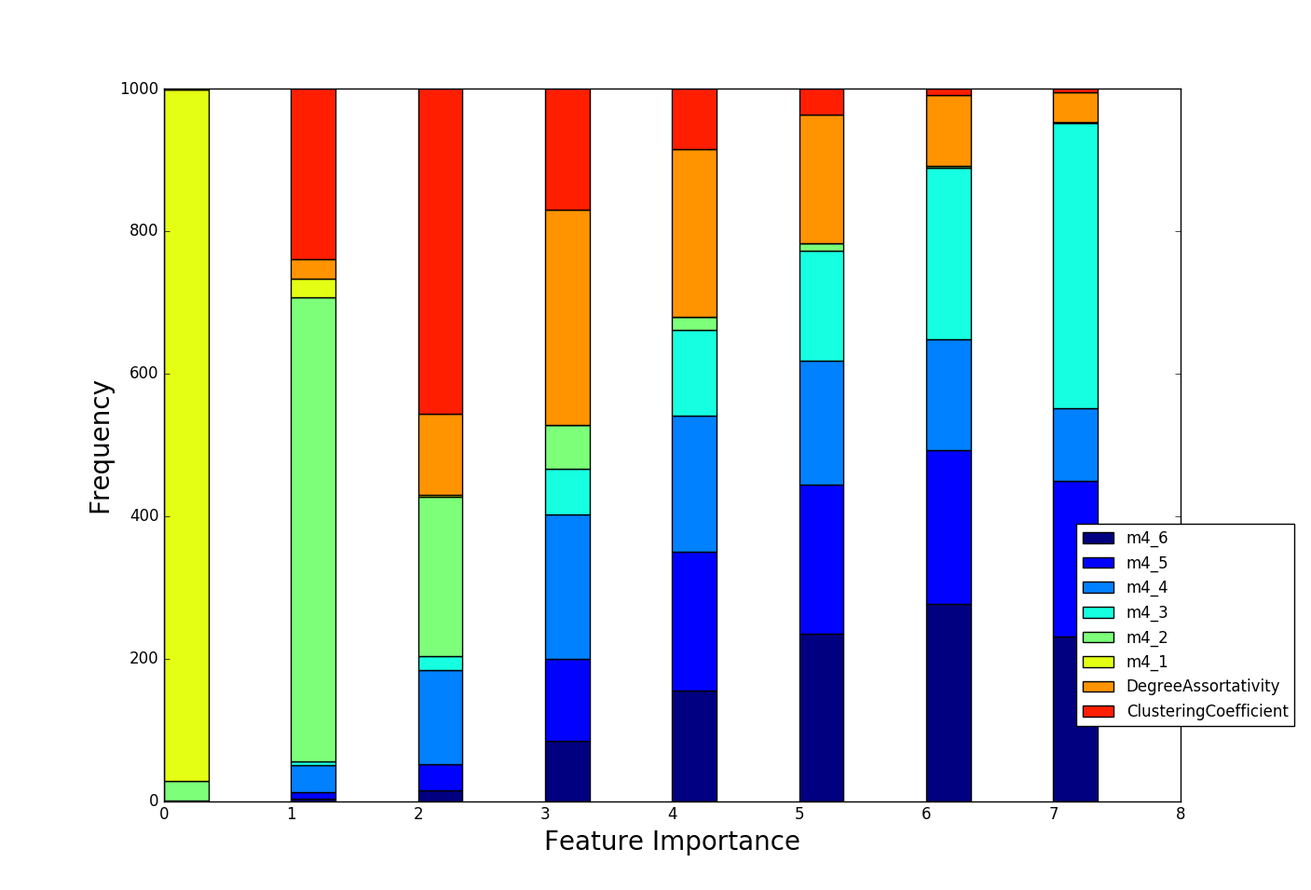
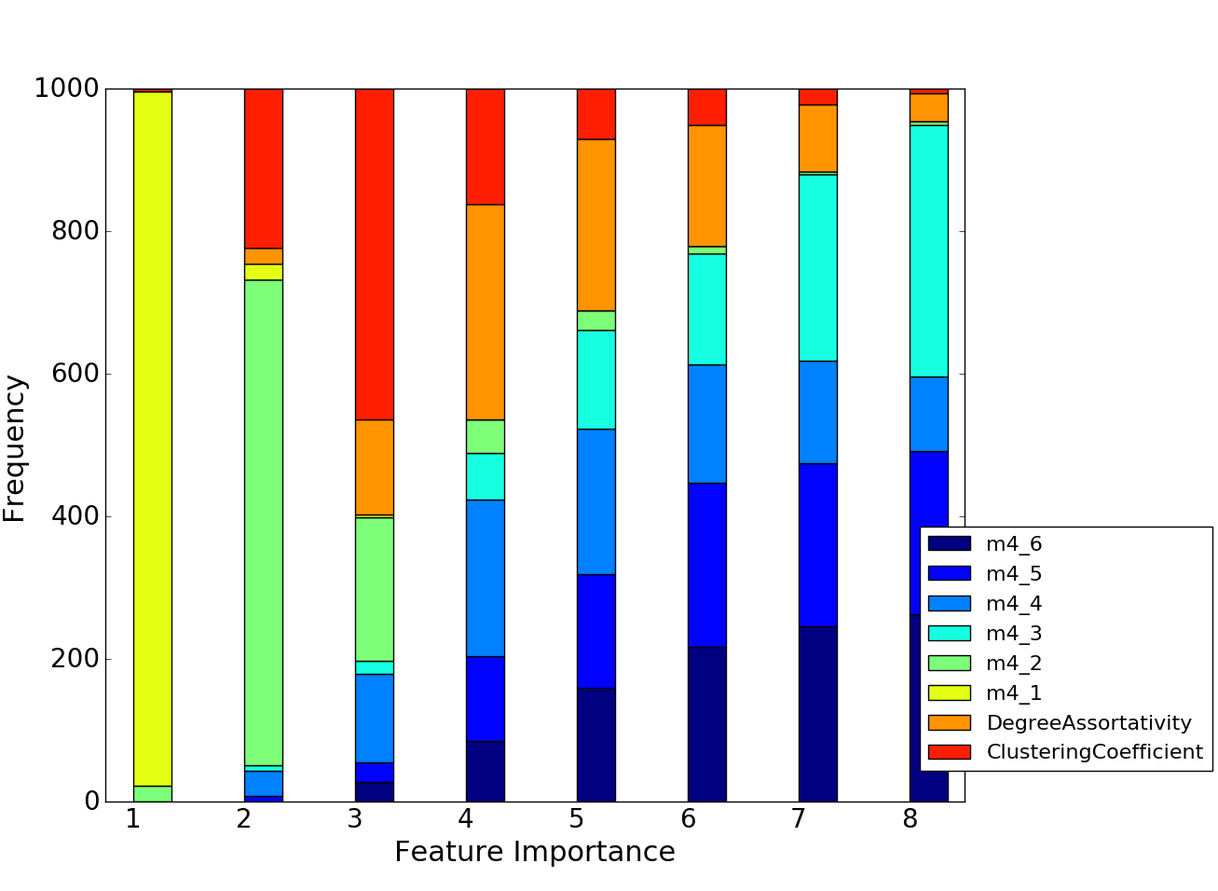
Larger font size for some figures.

diff --git a/Thesis.tex b/Thesis.tex
@@ -211,8 +211,8 @@ In this study, we treat the significance profile for each subgraph as a feature 
     \caption{Network Features. The total number of features is $8$.}
     \begin{tabular}{| l | p{8cm} |} \hline
       Name of the feature & Explanation  \\ \hline \hline
-      Clustering coefficient &  The probability that a connected triplet ($k=3$ subgraph) is a triangle \\  \hline
-      Degree assortativity &  Correlation between a pair of connected nodes' degree. \\  \hline
+      Clustering coefficient &  The probability that a connected triplet ($k=3$ subgraph) is a triangle \\  %\hline
+      Degree assortativity &  Correlation between a pair of connected nodes' degree. \\  %\hline
       Network motifs from $m4\_1$ to  $m4\_6$& The normalized z score of a subgraph's frequency compared to that of an ensemble of random networks having the exact same degree distribution. \\ \hline
     \end{tabular}
     \label{tab:feature}
@@ -420,7 +420,7 @@ The first question of focus is about the set of distinguishing features that mak
 Fig.\ref{2d_figures} shows two dimensional plots for the representative network sub-domains with axes being the top two important features selected from the statistics of aggregated feature importance shown in Fig. \ref{feature_importance_figures}. One important observation here is that the AUC score captures the separability and the degree of "spread" of a specific class labels in the two dimensional feature space: the averaged AUC score for protein interaction networks shown in Fig. \ref{protein_2d} is 0.693 and the data points are spread across the large region of the feature space; the 2D plot of communication networks as shown in Fig. \ref{communication_2d}, on the other hand, displays a cluster of points corresponding to the class and the averaged AUC score for binary classifications is 0.992 which is much higher than that of protein interaction networks. The degree of spread, expressed in the AUC score, implies the structural variability of networks within a single category. For example, protein interaction networks and connectome exhibit the high structural variability of networks in those categories in a space defined by the selected features, whereas other network categories such as metabolic networks, ecological food webs, etc. exhibit the low structural variability in the selected features. This suggests the possible need for adding a new set of features for protein interaction networks and connectome with which we could distinguish them from the other kinds. 
 
 
-Fig.\ref{feature_importance_figures} shows the aggregated rankings of feature importance. In this figure, one can observe the general trend of an informative feature set and the "strength" of those features in the ranking. For example, the motif $m4\_6$, a connected path, of metabolic networks and the motif $m4\_1$, $k=4$ clique, of online social networks are the most important features and their strength is quite dominant:  $m4\_6$ of metabolic networks ranks as the first 937 times out of 1000 runs and $m4\_1$ of online social networks ranks as the first 971 times  out of 1000 runs, respectively. It is interesting to note that for online social networks clustering coefficient and degree assortativity, both long known for distinguishing features for social networks in general do not rank as the most or even the second most important features here.  On the other hand, the ranking of feature importance for connectome displays a lack of definitive features that can be seen in the almost equal frequencies of features appearing at any rank. This indicates that none of the features we have used cannot explain the network category succinctly: for online social networks we can describe the networks as having an extraordinarily number of $k=4$ cliques when compared to their randomized counterparts; we cannot, however, describe connectome with the feature set in such a way.
+Fig.\ref{feature_importance_figures} shows the aggregated rankings of feature importance. In this figure, one can observe the general trend of an informative feature set and the "strength" of those features in the ranking. For example, the motif $m4\_6$, a connected path, of metabolic networks and the motif $m4\_1$, $k=4$ clique, of online social networks are the most important features and their strength is quite dominant:  $m4\_6$ of metabolic networks ranks as the first 939 times out of 1000 runs and $m4\_1$ of online social networks ranks as the first 974 times  out of 1000 runs, respectively. It is interesting to note that for online social networks clustering coefficient and degree assortativity, both long known for distinguishing features for social networks in general do not rank as the most or even the second most important features here.  On the other hand, the ranking of feature importance for connectome displays a lack of definitive features that can be seen in the almost equal frequencies of features appearing at any rank. This indicates that none of the features we have used cannot explain the network category succinctly: for online social networks we can describe the networks as having an extraordinarily number of $k=4$ cliques when compared to their randomized counterparts; we cannot, however, describe connectome with the feature set in such a way.
 
 
 
@@ -428,18 +428,18 @@ These distinguishing features observed in the figures seem to have some implicat
 
 On the other hand, communication networks namely the Internet at the level of autonomous systems exhibit the underrepresented number of  $m4\_1$ subgraphs. It was previously reported that the number of triangles in the communication networks is less than the expected value of the number of triangles for their randomized counterparts having the same degree distribution \cite{InternetClustering}. The $m4\_1$ subgraph, namely $k=4$ clique, contains four triangles within itself. Therefore it is not illogical to say that the underrepresentation of triangles approximately equals to the underrepresentation of $k=4$ clique, which leads us to claim that our finding coincides with the previous study. This underrepresentation of $k=4$ clique may imply the underlying growing or "construction" mechanism of communication systems: the whole system needs to be connected in order for the Internet to work, but does not need too many connections among autonomous systems as the cost for connections should be minimized. 
 
-For some network sub-domains, however, implications of the distinguishing features are unclear. Although protein interaction networks and connectome exhibit degree assortativity and $m4\_2$ motif, namely $4-$chordal cycle, as the most distinguishing features, their structural variability which is displayed as the spread of points makes it infeasible to even hypothesize the relationship between those features and underlying mechanism of such networks. For metabolic networks, the underrepresentation of $m4\_6$ motif ($4$-path) is found to be the most distinguishing characteristic for the category. However, connecting this result with the possible mechanism which yields the underrepresentation of the motif in metabolic networks is yet under investigation.
+For some network sub-domains, however, implications of the distinguishing features are unclear. Although protein interaction networks and connectome exhibit degree assortativity and $m4\_4$ motif, namely $4-$cycle, as the most distinguishing features, their structural variability which is displayed as the spread of points makes it infeasible to even hypothesize the relationship between those features and underlying mechanism of such networks. For metabolic networks, the underrepresentation of $m4\_6$ motif ($4$-path) is found to be the most distinguishing characteristic for the category. However, connecting this result with the possible mechanism which yields the underrepresentation of the motif in metabolic networks is yet under investigation.
 
  In this analysis we have successfully identified a set of distinguishing structural features for some network sub-domains, such as ecological food webs, online social networks and communication networks and these features seem to coincide with the results from previous studies of such sub-domains. We have also pointed out that the distinguishing features have some implications for the underlying mechanism of networks of sub-domains.
 
 \begin{figure}[H]
 \begin{subfigure}{0.48\textwidth}
 \includegraphics[width=\linewidth]{figs/one_by_many/protein/2d.png}
-\caption{Protein interaction.  Average AUC score: 0.693} \label{protein_2d}
+\caption{Protein interaction.  Average AUC score: 0.689} \label{protein_2d}
 \end{subfigure}\hspace*{\fill}
 \begin{subfigure}{0.48\textwidth}
 \includegraphics[width=\linewidth]{figs/one_by_many/food_web/2d.png}
-\caption{Ecological food web. Average AUC score: 0.802} \label{foodweb_2d}
+\caption{Ecological food web. Average AUC score: 0.804} \label{foodweb_2d}
 \end{subfigure}
 
 \medskip
@@ -449,13 +449,13 @@ For some network sub-domains, however, implications of the distinguishing featur
 \end{subfigure}\hspace*{\fill}
 \begin{subfigure}{0.48\textwidth}
 \includegraphics[width=\linewidth]{figs/one_by_many/connectome/2d.png}
-\caption{Connectome. Average AUC score: 0.715} \label{connectome_2d}
+\caption{Connectome. Average AUC score: 0.716} \label{connectome_2d}
 \end{subfigure}
 
 \medskip
 \begin{subfigure}{0.48\textwidth}
 \includegraphics[width=\linewidth]{figs/one_by_many/online_social/2d.png}
-\caption{Online social. Average AUC score: 0.939} \label{online_social_2d}
+\caption{Online social. Average AUC score: 0.94} \label{online_social_2d}
 \end{subfigure}\hspace*{\fill}
 \begin{subfigure}{0.48\textwidth}
 \includegraphics[width=\linewidth]{figs/one_by_many/communication/2d.png}
@@ -649,7 +649,7 @@ Then the question is: \textit{What could be a good indicator of similarity in ne
 
 Fig.\ref{meta_network_community} shows the networks of sub-domains on which the colors of nodes correspond to the community membership found by a community detection algorithm proposed by Clauset \textit{et al.} \cite{CNMAlgorithm}. We have used the implementation of the modified version of this algorithm for weighted network that is available in Python-igraph as a method \texttt{community\_fastgreedy()} \cite{igraph}. From Fig.\ref{meta_network_community}, one may notice that the community structure across different sampling methods is almost consistent, meaning that the certain groups of sub-domains are always in the same community.  For instance, for all sampling methods, offline social, connectome and affiliation networks are in the same community. 
 
-Some network sub-domains, however, change the community membership for some subdomain networks. For instance, online social network and forest fire model networks join the community of off-line social network for no sampling, random-over sampling and random-under sampling method, but joins the community of software dependency (red color) for SMOTE sampling. This variation of community membership across all subdomain networks could be attributed to the effect of each sampling method on decision surfaces a classifier builds for classification. For instance, decision surfaces built by a classifier under the random under-sampling strategy should be simple shape-wise since the training set is very sparse in terms of the number of data points. On the other hand, decision surfaces built by a classifier for random over-sampling should be more toward complicated shape-wise and lead to over-fitting as the number of data points for training is larger and duplicated points force the classifier to adjust itself to those points. Therefore this variation of decision surfaces may lead some data points be classified differently for different sampling method, which ultimately leads to the variation of community memberships.
+Some network sub-domains, however, change the community membership for some subdomain networks. For instance, online social network and forest fire model networks join the community of off-line social network for no sampling, random-over sampling and random-under sampling method, but joins the community of software dependency (red color) for SMOTE sampling. This variation of community membership across all subdomain networks could be attributed to the effect of each sampling method on decision surfaces a classifier builds for classification. For instance, decision surfaces built by a classifier under the random under-sampling strategy should be simple shape-wise since the training set is very sparse in terms of the number of data points. On the other hand, decision surfaces built by a classifier for random over-sampling should be more toward complicated shape-wise and lead to over-fitting as the number of data points for training is larger and duplicated points force the classifier to adjust itself to those points. Therefore this variation of decision surfaces may lead some data points to be classified differently for different sampling method, which ultimately leads to the variation of community memberships.
 
 
 In order to facilitate analyzing the variation of community memberships, we have constructed a matrix, shown in Fig.\ref{community_overlaps} in which the frequency that two sub-domain share the same community membership corresponds to the color intensity. For instance offline social, connectome and affiliation networks are assigned to the same community four times. From this figure, one may notice that there appears to be three groups of sub-domains that are consistently assigned to the same community. The first one is a community of social networks including online and offline social networks as well as affiliation network and forest fire model  that was invented for modeling the large scale online social network with an exception of connectome, namely brain networks. The second group of sub-domains corresponds to the networks that have been claimed to have the power-law degree distribution which include scale-free network, metabolic network, web graph, etc. and some of these networks have been conjectured to grow according to a mechanism called preferential attachment. In this network generative process, newly added nodes in a network, for example newly created web page or software package, tend to connect to the popular or high-degree nodes, i.e. popular web sites or widely used software packages. The third and last group of sub-domains is the network of "flow" that includes electrical signal (digital circuit), information (bayesian), water (water distribution), nutrient (fungal), people/trains (subway) and cars (road).  Also, if we look at the subdomain networks, digital circuit and bayesian networks are always tightly connected together. This may be due to the fact that they are both an input-output network as well as being a flow network. The rest of the flow networks have another common property, that is, physical embedding of the network. These networks have a strong constraint of the physical limitation. For instance, it is almost impossible for a node in a physically embedded network to have a thousand connections upon it.
@@ -662,16 +662,16 @@ In order to facilitate analyzing the variation of community memberships, we have
 		\vspace{0.5cm}
 		\includegraphics[clip,width=12cm,height = 9cm]{figs/overlaps.png}
 		\vspace{0.5cm}
-		\caption{Overlaps of community memberships. The intensity of color for each cell in the matrix indicates the frequency of two sub-domains being in the same community.  There are three groups of sub-domains that almost constantly share the community membership: (i) community of social networks including online social, forest fire model, offline social, and so on.; (ii) community of networks known for having the scale-free property including scale-free network, metabolic network, web graph, etc. with some exceptions such as small world network; (iii) community of networks that are physically embedded, having an input-output function or containing some sort of flow on the network, which include road, digital circuit and fungal networks.}
+		\caption{Overlaps of community memberships. The intensity of color for each cell in the matrix indicates the frequency of two sub-domains being in the same community.  There are three groups of sub-domains that almost constantly share the community membership: (i) community of social networks including online social, forest fire model, offline social, and so on.; (ii) community of networks claimed to have a power-law degree distribution including scale-free network, metabolic network, web graph, etc. with some exceptions such as small world network; (iii) community of networks that are physically embedded, having an input-output function or containing some sort of flow on the network, which include road, digital circuit and fungal networks.}
 		\label{community_overlaps}
  		\end{center}
 \end{figure}
 
 %The intersections of community overlap circles are where some ambiguity remains. Metabolic network, for example is at the intersection of flow networks and preferential attachment networks. It is known that metabolic network is in fact a so-called scale-free network and the preferential attachment mechanism can be explained by the natural selection over the course of evolution. However, one can think metabolic network as some sort of flow network having some input-output relations as well: the input corresponds to nutrients and they get broken down into pieces of chemical; the output corresponds to the usable chemical compound that a living organism needs in order to survive. Therefore, it is reasonable for this factory-like flow network to be classified as or similar with other flow networks such as digital circuit or bayesian networks as well as a preferential attachment network. 
 
-From these communities of sub-domains, one could hypothesize an idea that explains what governs the structure of complex networks: functionality, constraint and growing mechanism of networks play an important role of formation of a specific network structure. As we have seen the sub-domains of networks that have the similar functionality, constraint or growing mechanism exhibit the similar structural pattern which is captured in confusion matrices and also communities of networks. However, there seems to be a case where we do not know why a network sub-domain is in a community and how the hypothesis would explain this: connectome, or brain network shares the same community with social networks. If our hypothesis is correct, then brain networks should have either the same function, constraint or growing mechanism as social networks. As far as we know, there is no study which compares connectome and social networks in terms of network structure and explains the similarity of their function, constraint and generative mechanism. One possible direction to take would be finding a set of features for which those sub-domains have similar values and investigate a possible generative process which yields networks having such structural features.
+From these communities of sub-domains, one could hypothesize an idea that explains what governs the structure of complex networks: functionality, constraint and growing mechanism of networks may play an important role of the formation of a specific network structure. As we have seen, the sub-domains of networks that have the similar functionality, constraint or growing mechanism exhibit the similar structural pattern which is captured in confusion matrices and also communities of networks. However, there seems to be a case where we do not know why a network sub-domain is in a community and how the hypothesis would explain this: connectome, or brain network shares the same community with social networks. If our hypothesis is correct, then brain networks should have either the same function, constraint or growing mechanism as social networks. As far as we know, there is no study which compares connectome and social networks in terms of network structure and explains the similarity of their function, constraint and generative mechanism. One possible direction to take would be finding a set of features for which those sub-domains have similar values and investigate a possible generative process which yields networks having such structural features.
 
-Although there are some exceptional cases, our findings from this experiment provide some supporting evidence that the network structure is indeed is influenced by the underlying function, constrain and growing mechanism of the network.
+Although there are some exceptional cases, our findings from this experiment provide some supporting evidence that the network structure is indeed is influenced by the underlying function, constraint and growing mechanism of the network.
 
 
 %%%%%%%%%%%%%%%% --- New Chapter --- %%%%%%%%%%%%%%%%
@@ -679,35 +679,37 @@ Although there are some exceptional cases, our findings from this experiment pro
 \section{Discussion}
 In the previous chapter, we have found the distinguishing features for various network sub-domains with possible explanations for the underlying processes of networks, and the hidden similarities among network domains and sub-domains based on subdomain networks we have constructed. In this chapter we are going to synthesize our findings and the previous studies together.
 
-In the investigation of distinguishing features and the separability of sub-domains, we have observed that some network sub-domains are hard to be separated in the high dimensional feature space, which can be also seen in AUC score. This finding has an interesting connection with the subdomain networks we have constructed later: the sub-domains having high separability, such as online social networks and ecological food-webs, tend to be at the \textit{periphery} of the subdomain networks, whereas the subdomains having low separability, such as protein interaction networks and connectome, tend to be at the \textit{core} of the subdomain networks. In the subdomain networks, the core of nodes essentially depicts the sub-domains that are frequently misclassified by a classifier due to their structural similarity and the periphery displays sub-domains that are dissimilar to other sub-domains in terms of network structure. Therefore, it is relatively easy to infer that the sub-domains at the core that were not studied for finding the distinguishing features, such as digital circuits and web graphs, may also exhibit low separability in the feature space. 
+In the investigation of distinguishing features and the separability of sub-domains, we have observed that some network sub-domains are hard to be separated in the high dimensional feature space, which can be also seen in the AUC score. This finding has an interesting connection with the subdomain networks we have constructed later: the sub-domains having high separability, such as online social networks and ecological food-webs, tend to be at the \textit{periphery} of the subdomain networks, whereas the subdomains having low separability, such as protein interaction networks and connectome, tend to be at the \textit{core} of the subdomain networks. In the subdomain networks, the core of nodes essentially depicts the sub-domains that are frequently misclassified by a classifier due to their structural similarity and the periphery displays sub-domains that are dissimilar to other sub-domains in terms of network structure. Therefore, it is relatively reasonable to infer that the sub-domains at the core that were not studied for finding the distinguishing features, such as digital circuits and web graphs, may also exhibit low separability in the feature space. 
 
 
- As we have seen in confusion matrices in Fig.\ref{confusion}, network domains such as Biological, Social, etc. are quite separable in the feature space. Also, confusion matrices of network sub-domains exhibit the strong diagonal patterns except a few such as bayesian network and web graphs, indicating the separability of networks at the sub-domain level. These separabilities of networks in the different levels (domain and sub-domain) tells us something about where networks of different types occur within a manifold in the high dimensional feature space we have constructed: in the feature space at the domain level, points that corresponds to individual networks in the same network domain occupy some space in an intricately shaped manifold and the confusion matrices for network domain essentially indicates that instances of different network domains occupy different locations within the manifold with some overlap, which could be observed in off-diagonal elements in the confusion matrices. 
- 
- At the network sub-domain level, we see a somewhat different outcome: some sub-domains in a network domain occupy regions in the feature space that are completely separated; they correspond to the non-overlapping sections of the manifold at the level of network domain. They include, for example, food webs for Biological, peer to peer for Informational, communication for Technological and roads for Transportation. Some network sub-domains, however, almost completely overlap in the manifold with other sub-domains, and they correspond to the overlapping sections of the manifold at the network domain level. They include bayesian and web graphs for Informational and water distribution and software dependency for Technological. 
+ As we have seen in confusion matrices in Fig.\ref{confusion}, network domains such as Biological, Social, etc. are quite separable in the feature space. Also, confusion matrices of network sub-domains exhibit the strong diagonal patterns except a few such as bayesian network and web graphs, indicating the separability of networks at the sub-domain level. The separability of networks in the different levels (domain and sub-domain) tells us something about where networks of different types occur within a manifold in the high dimensional feature space we have constructed: in the feature space at the domain level, points that corresponds to individual networks in the same network domain occupy some space in an intricately shaped manifold and diagonal elements in the confusion matrices for network domain imply that instances of different network domains occupy different locations within the manifold with some overlap, which could be observed in off-diagonal elements in the confusion matrices. At the network sub-domain level, we see a somewhat different outcome: some sub-domains in a network domain occupy regions in the feature space that are completely separated; they correspond to the non-overlapping sections of the manifold at the level of network domain. They include, for example, food webs for Biological, peer to peer for Informational, communication for Technological and roads for Transportation. Some network sub-domains, however, almost completely overlap in the manifold with other sub-domains, and they correspond to the overlapping sections of the manifold at the network domain level. They include bayesian and web graphs for Informational and water distribution and software dependency for Technological. 
 
 %This discussion of a manifold and regions that network domains and sub-domains occupy 
 % talk about the granularity?
 
-This idea of thinking networks in a feature space as a manifold of complex shape has been explored in some previous studies. Avena-Koenigsberger \textit{et al.} have studied the idea of \textit{network morphospace} in which each axis corresponds to some feature related to the structure of networks, such as tree-ness, feed-forwardness and orderability \cite{NetworkMorphospace}. In this study, it is shown that different kinds of networks, such as technological, language and neural networks occupy some regions in a feature space which they call morphospace. One may notice in this study that some regions in the morphospace are not occupied at all by any networks. This observation gives us some question about the feature space: \textit{Are some regions of a feature space theoretically possible for networks to occupy?} This question may be answered with the study done by Ugander \textit{et al.} \cite{Ugander:2013}. They have studied a feature space in which each axis corresponds to the subgraph frequency of online social networks and mathematically proved that there are some regions in the feature space that are mathematically infeasible to be occupied. In other words, it is theoretically impossible for networks to have a structural property which corresponds to the region in the feature space. Interestingly, they observed that the real world networks, in this case Facebook networks, only occupy some sections of the habitable region. Taken together, these studies suggest that networks in the high dimensional feature occupy some regions of the entire possible space that is theoretically feasible. This phenomenon may be due to the fact that the space not occupied yet theoretically feasible corresponds to an inefficient structure of a network. Many of the biological networks and technological networks are optimized for a functioning by either natural selection over the course of evolution or effort of designing by a number of engineers and this may push the networks into a certain region in the feature space. The convergence toward a certain region in the feature space seems to happen in both kinds of networks, namely biological and technological networks and this is supported by one of our findings that fungal network, a kind of biological network developed by the evolutionary strategy, and water distribution networks, a kind of network designed by engineers, are found to be structurally similar based on the results of confusion matrices and their optimization is essentially for efficient flow on the network and cost-reduction of wiring in the networks.
+This idea of thinking networks as data points in a manifold of complex shape within some feature space has been explored previously. Avena-Koenigsberger \textit{et al.} have studied the idea of \textit{network morphospace} in which each axis corresponds to some feature related to the structure of networks, such as tree-ness, feed-forwardness and orderability \cite{NetworkMorphospace}. In this study, it is shown that different kinds of networks, such as technological, language and neural networks occupy some regions in a feature space which they call morphospace. One may notice in this study that some regions in the morphospace are not occupied at all by any networks. This observation yields a question about the feature space: \textit{Are some regions of a feature space theoretically possible for networks to occupy?} This question may be answered with the study done by Ugander \textit{et al.} \cite{Ugander:2013}. They have studied a feature space in which each axis corresponds to the subgraph frequency of online social networks and mathematically proved that there are some regions in the feature space that are mathematically infeasible to be occupied. In other words, it is theoretically impossible for networks to have a structural property which corresponds to the region in the feature space. Interestingly, they observed that the real world networks, in this case Facebook networks, only occupy some sections of the habitable region. Taken together, these studies suggest that networks in the high dimensional feature occupy some regions of the entire possible space that is theoretically feasible. This phenomenon may be due to the fact that the space which is not occupied, yet theoretically feasible corresponds to an inefficient structure of a network. Many of the biological networks and technological networks are optimized for a functioning by either natural selection over the course of evolution or effort of designing by a number of engineers and this may push the networks into a certain region in the feature space. The convergence toward a certain region in the feature space seems to happen in both kinds of networks, namely biological and technological networks and this is supported by one of our findings that fungal network, a kind of biological network developed by the evolutionary strategy, and water distribution networks, a kind of network designed by engineers, are found to be structurally similar based on the results of confusion matrices and their optimization is essentially for efficient flow on the network and cost-reduction of wiring in the networks.
  
  
  %%%%%%%%%%%%%%%% --- New Chapter --- %%%%%%%%%%%%%%%%
 %\newpage
 
  \section{Conclusion}
- In this thesis we have studied 986 real-world networks along with 575 synthesized networks in order to establish a general theory of the structure of complex networks across various domains and sub-domains.
+ In this thesis we have studied 986 real-world networks along with 575 synthesized networks in order to establish a  theory of the structure of complex networks across various domains and sub-domains which tries to explain the structural diversity of complex networks.
  
-  Our study successfully identified the distinguishing features for some network sub-domains including, metabolic, ecological food web, online social and communication networks and found out some of these features could naturally explain the process in the network of interest. There are sub-domains, however, that seem to be indistinguishable from others with a set of features we have utilized 
+  Our study successfully identified the distinguishing features for some network sub-domains including, metabolic, ecological food web, online social and communication networks and found out some of these features could naturally explain the process in the network of interest. There are sub-domains such as protein interactions and connectomes, however, that seem to be indistinguishable from others with a set of features we have utilized 
   
-  Using machine learning techniques such as random forest classifier, confusion matrix and community detection algorithm, our study sheds light on the direction to which we could uncover the underlying principles of network structure: the functionality, constraint and growing mechanism of a network play an important role for the construction of networks having certain structural properties.
+  Using machine learning techniques such as random forest classifier, confusion matrix and network community detection algorithm, we have found that there are some categories of networks that are hard to be distinguished from each other by a classifier based solely on their structural features and these groups of structurally similar yet categorically different networks in fact have some common properties, such as the same functionality, physical constraints and generative process of the networks. There are, however, some categories of networks that are found to be structurally similar, and yet our hypothesis seems to lack some theoretical basis for explaining the phenomenon.
+ 
+ Nevertheless, our study sheds light on the direction to which we could uncover the underlying principles of network structure: the functionality, constraint and growing mechanism of network may play an important role for the construction of networks having certain structural properties.
  
  
  %%%%%%%%%%%%%%%% --- New Chapter --- %%%%%%%%%%%%%%%%
 %\newpage
 
 \section{Future Work}
-There is still some room for our study to be improved. The class imbalance problem, even though we have utilized sampling methods in order to alleviate the problem, is one the main remaining concerns.  We could possibly discover other hidden properties and relationships if more instances were added for sub-domains that are excluded from the analyses due to the lack of instances needed for classification tasks, such as language network, collaboration network, power grid network, etc. Another direction for future research is incorporating other scale-invariant structural features. In this study we have only used a set of eight features. It is possible, however, that adding other dimensions in the feature space may reveal other hidden properties that were not captured in our feature set. Lastly, our study suggests a new alternative way to construct and validate a hypothesis regarding which network sub-domains have the common generative process. For example, one could train a classifier on only networks that are constructed by some network generative models, feed the classifier instances of real-world networks and observe which categories of networks are classified as which generative processes.
+There is still some room for our study to be improved. The class imbalance problem, even though we have utilized sampling methods in order to alleviate the problem, is one the main remaining concerns.  We could possibly discover other hidden properties and relationships if more instances were added for sub-domains that are excluded from the analyses due to the lack of instances needed for classification tasks, such as language network, collaboration network, power grid network, etc. Another direction for future research is incorporating other scale-invariant structural features. In this study we have only used a set of eight features. It is possible, however, that adding other dimensions in the feature space may reveal other hidden properties that were not captured in our feature set. 
+
+Lastly, our study could extend a work by Middendorf \textit{et al.} in which they trained a machine learning classifier on instances of various network generative models, classified protein interaction networks of the drosophila melanogasterusing, a species of fly, and identified a generative mechanism that was most likely to produce the protein interaction networks \cite{MechanismInference}. Using a broad spectrum of networks of different categories, our study suggests a way to construct and validate a hypothesis regarding which network sub-domains have the common generative process. For example, one could train a classifier on only networks that are constructed by some network generative models, feed the classifier instances of real-world networks and observe which categories of networks are classified as which generative processes.
 
 \clearpage
 
